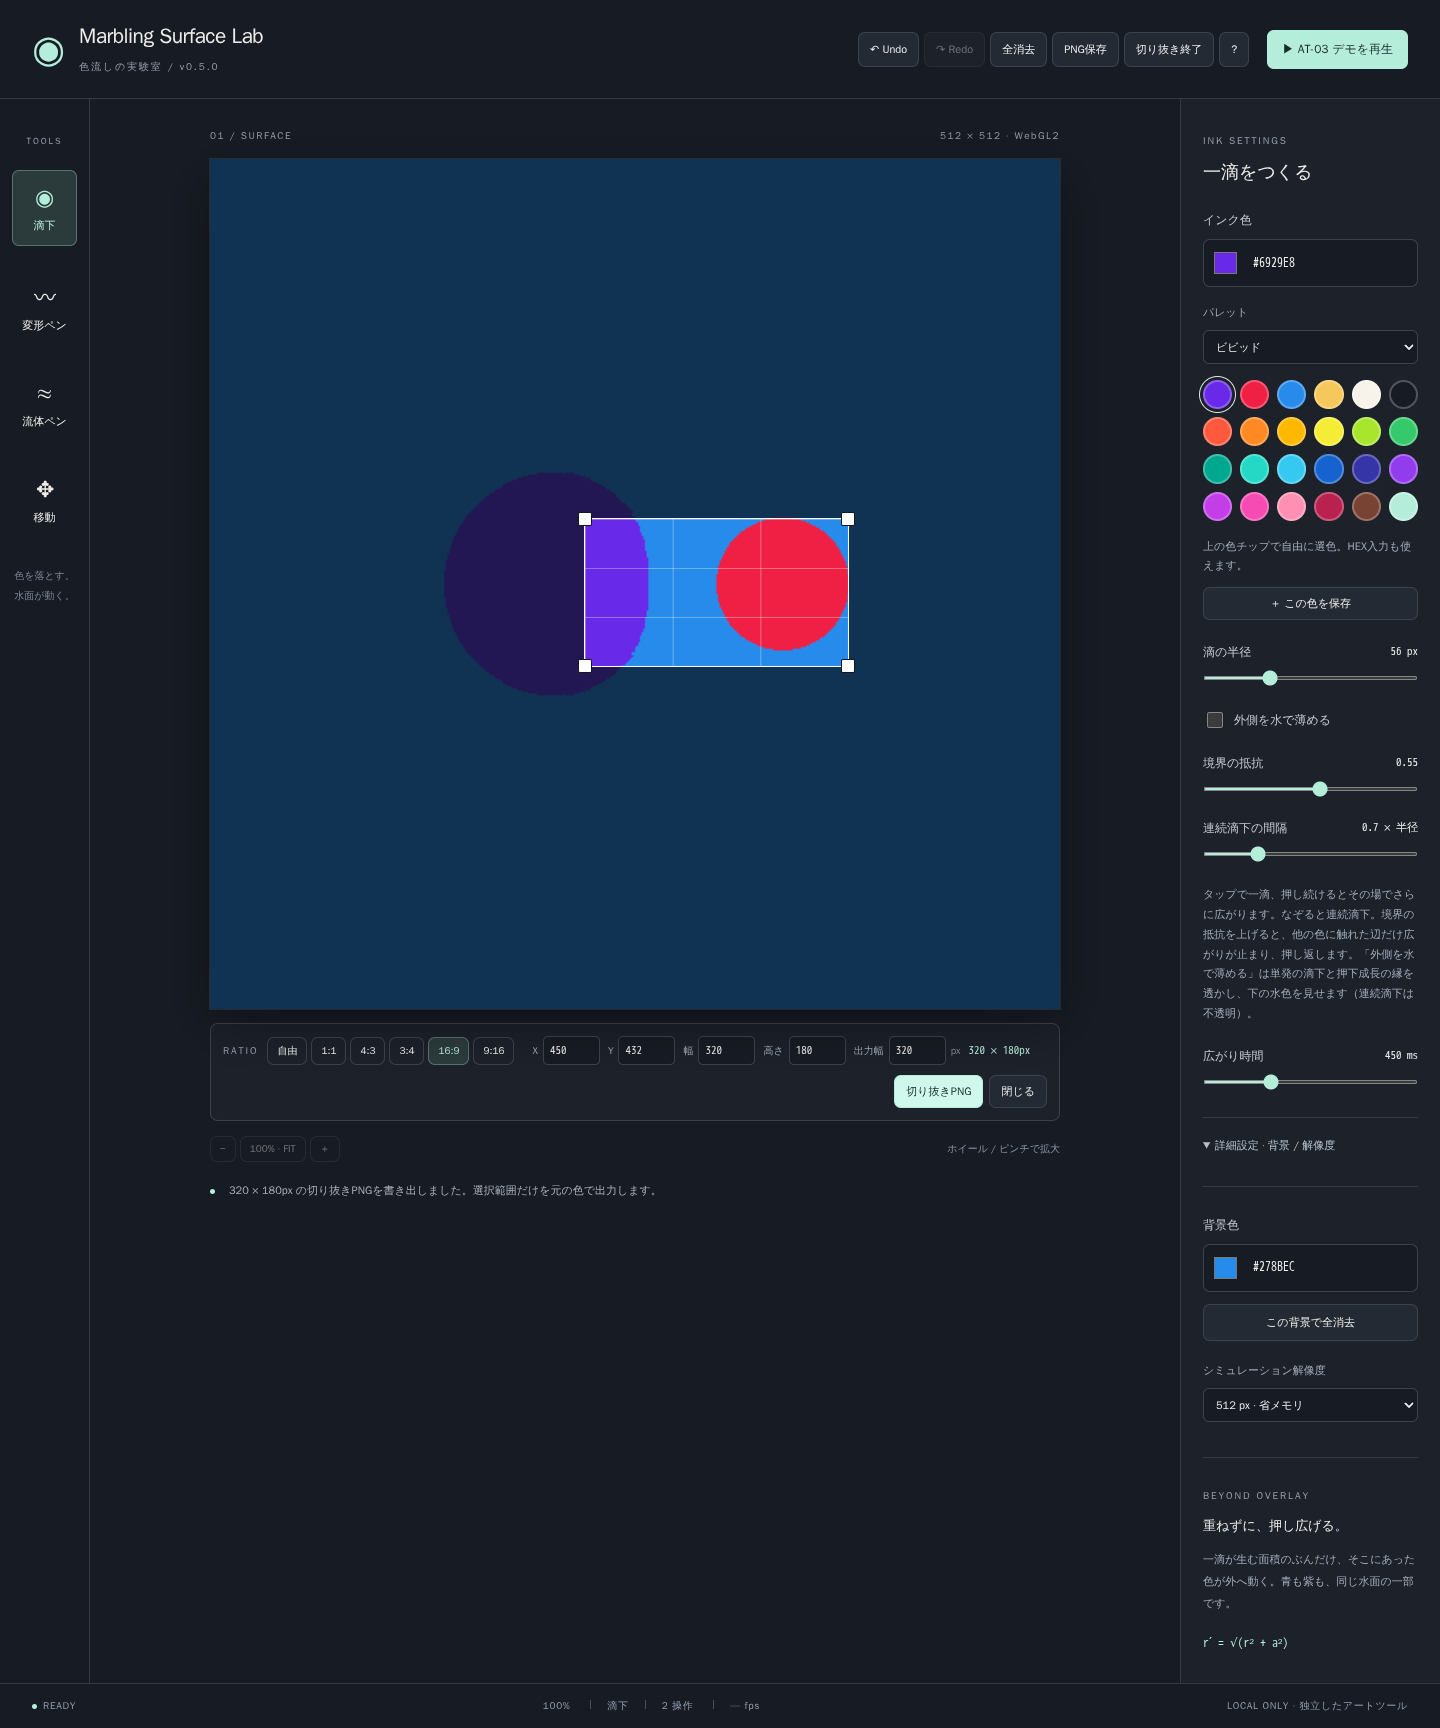
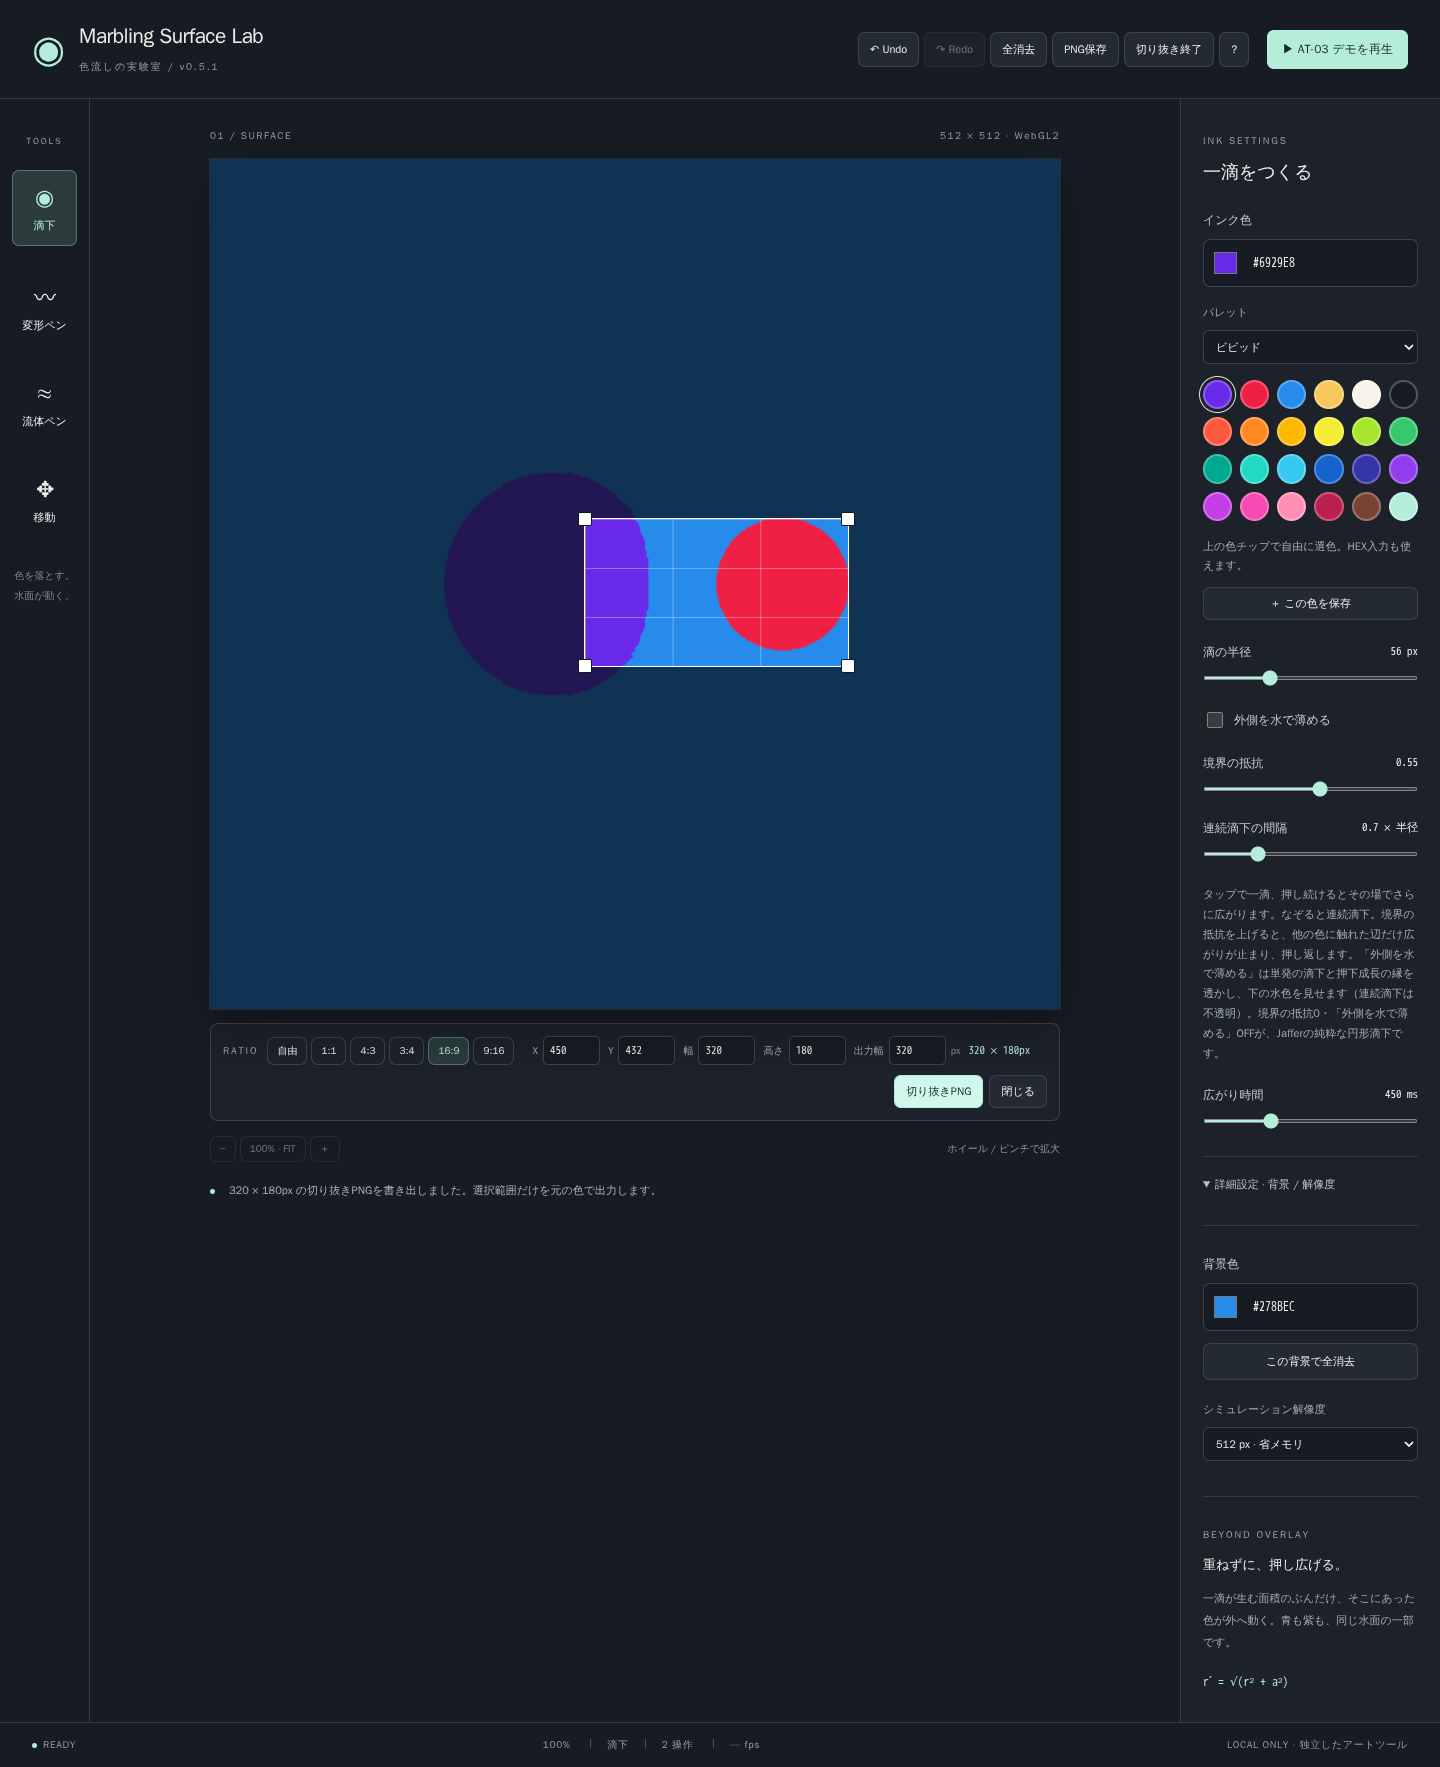
docs: verify Jaffer conformance and release v0.5.1

diff --git a/src/components/SettingsPanel.tsx b/src/components/SettingsPanel.tsx
@@ -34,7 +34,7 @@ export function SettingsPanel(p: Props) {
     {p.waterFade > 0 && <Slider label="薄まりの強さ" value={p.waterFade} min={0.1} max={1} step={0.05} unit="" onChange={p.setWaterFade} />}
     <Slider label="境界の抵抗" value={p.boundaryResistance} min={0} max={1} step={0.05} unit="" onChange={p.setBoundaryResistance} />
     <Slider label="連続滴下の間隔" value={p.dropSpacing} min={0.3} max={2} step={0.1} unit="× 半径" onChange={p.setDropSpacing} />
-    <p className="setting-hint">タップで一滴、押し続けるとその場でさらに広がります。なぞると連続滴下。境界の抵抗を上げると、他の色に触れた辺だけ広がりが止まり、押し返します。「外側を水で薄める」は単発の滴下と押下成長の縁を透かし、下の水色を見せます（連続滴下は不透明）。</p>
+    <p className="setting-hint">タップで一滴、押し続けるとその場でさらに広がります。なぞると連続滴下。境界の抵抗を上げると、他の色に触れた辺だけ広がりが止まり、押し返します。「外側を水で薄める」は単発の滴下と押下成長の縁を透かし、下の水色を見せます（連続滴下は不透明）。境界の抵抗0・「外側を水で薄める」OFFが、Jafferの純粋な円形滴下です。</p>
     <Slider label="広がり時間" value={p.duration} min={0} max={1500} step={50} unit="ms" onChange={p.setDuration} />
     </>}
     {pen && <section className="pen-settings" aria-label="ペン設定">

diff --git a/e2e/p0.spec.ts b/e2e/p0.spec.ts
@@ -79,6 +79,7 @@ test('AT-09/12: mouse mapping at zoom, resize persistence, UI keyboard history a
   await page.getByLabel('広がり時間', { exact: true }).fill('0');
   const canvas = page.locator('canvas');
   await page.getByRole('button', { name: '拡大', exact: true }).click();
+  await canvas.scrollIntoViewIfNeeded();
   const rect = (await canvas.boundingBox())!;
   await page.mouse.click(rect.x + rect.width * 0.7, rect.y + rect.height * 0.4);
   const painted = await page.evaluate(() => {

diff --git a/CHANGELOG.md b/CHANGELOG.md
@@ -1,5 +1,14 @@
 # Changelog
 
+## 0.5.1
+
+- Jafferの「Dropping Paint」「The Mathematics of Marbling」と実装を照合し、一致点・拡張・近似の対応表をREADMEへ追加。
+- 滴下の逆写像、全色への同一変形、滴下順序、円環面積保存はJafferと一致することを明記。
+- 境界の抵抗（初期値0.55）は円形・面積保存を変える拡張、水フェードは表示用アルファの拡張であることを明記。
+- 変形ペンはGaussian近似でJafferの `P + z·u^d·M` ではないこと、流体ペンは別モデルであることを明記。
+- 設定パネルに「境界の抵抗0・外側を水で薄めるOFFがJafferの純粋な滴下」である旨の案内を追加。
+- ページスクロール後にキャンバス外をクリックしていたE2E座標テストを、表示位置の再取得で安定化。
+
 ## 0.5.0
 
 - 滴下設定に「外側を水で薄める」オプションを追加。滴の中心は不透明のまま、縁ほど表示アルファを最大90%下げる。
